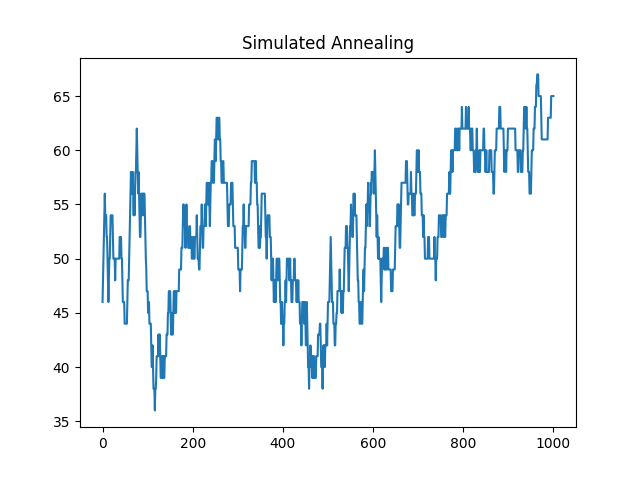
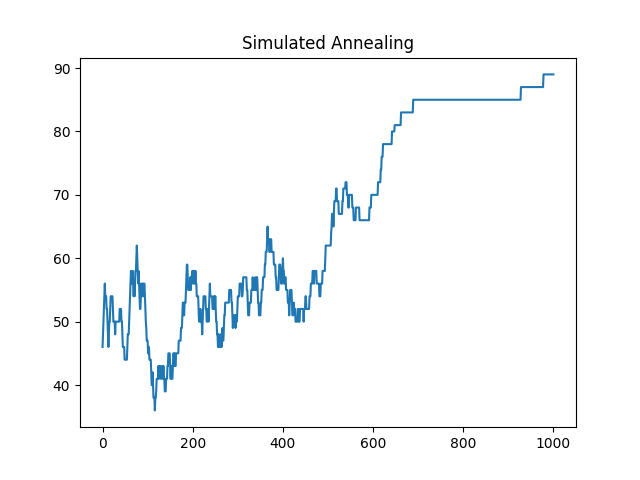
fix

diff --git a/randomized_optimization/plotting.py b/randomized_optimization/plotting.py
@@ -1,5 +1,8 @@
 import pandas as pd
+import numpy as np
 from matplotlib import pyplot as plt
+from sklearn.model_selection import learning_curve
+
 
 # TEST_PATH = './six_peaks/GA_final/ga__GA_final__curves_df.csv'
 def plot_ro_curve(filepath, title):
@@ -20,3 +23,120 @@ def plot_nn_curve_df(data, title=""):
     plt.plot(data)
     plt.title(title)
     plt.show()
+
+
+
+def plot_learning_curve(estimator, title, X, y, axes=None, ylim=None, cv=None,
+                        n_jobs=None, train_sizes=np.linspace(.1, 1.0, 5)):
+    """
+    Generate 3 plots: the test and training learning curve, the training
+    samples vs fit times curve, the fit times vs score curve.
+
+    Parameters
+    ----------
+    estimator : estimator instance
+        An estimator instance implementing `fit` and `predict` methods which
+        will be cloned for each validation.
+
+    title : str
+        Title for the chart.
+
+    X : array-like of shape (n_samples, n_features)
+        Training vector, where ``n_samples`` is the number of samples and
+        ``n_features`` is the number of features.
+
+    y : array-like of shape (n_samples) or (n_samples, n_features)
+        Target relative to ``X`` for classification or regression;
+        None for unsupervised learning.
+
+    axes : array-like of shape (3,), default=None
+        Axes to use for plotting the curves.
+
+    ylim : tuple of shape (2,), default=None
+        Defines minimum and maximum y-values plotted, e.g. (ymin, ymax).
+
+    cv : int, cross-validation generator or an iterable, default=None
+        Determines the cross-validation splitting strategy.
+        Possible inputs for cv are:
+
+          - None, to use the default 5-fold cross-validation,
+          - integer, to specify the number of folds.
+          - :term:`CV splitter`,
+          - An iterable yielding (train, test) splits as arrays of indices.
+
+        For integer/None inputs, if ``y`` is binary or multiclass,
+        :class:`StratifiedKFold` used. If the estimator is not a classifier
+        or if ``y`` is neither binary nor multiclass, :class:`KFold` is used.
+
+        Refer :ref:`User Guide <cross_validation>` for the various
+        cross-validators that can be used here.
+
+    n_jobs : int or None, default=None
+        Number of jobs to run in parallel.
+        ``None`` means 1 unless in a :obj:`joblib.parallel_backend` context.
+        ``-1`` means using all processors. See :term:`Glossary <n_jobs>`
+        for more details.
+
+    train_sizes : array-like of shape (n_ticks,)
+        Relative or absolute numbers of training examples that will be used to
+        generate the learning curve. If the ``dtype`` is float, it is regarded
+        as a fraction of the maximum size of the training set (that is
+        determined by the selected validation method), i.e. it has to be within
+        (0, 1]. Otherwise it is interpreted as absolute sizes of the training
+        sets. Note that for classification the number of samples usually have
+        to be big enough to contain at least one sample from each class.
+        (default: np.linspace(0.1, 1.0, 5))
+    """
+    if axes is None:
+        _, axes = plt.subplots(1, 3, figsize=(20, 5))
+
+    axes[0].set_title(title)
+    if ylim is not None:
+        axes[0].set_ylim(*ylim)
+    axes[0].set_xlabel("Training examples")
+    axes[0].set_ylabel("Score")
+
+    train_sizes, train_scores, test_scores, fit_times, _ = \
+        learning_curve(estimator, X, y, cv=cv, n_jobs=n_jobs,
+                       train_sizes=train_sizes,
+                       return_times=True)
+    train_scores_mean = np.mean(train_scores, axis=1)
+    train_scores_std = np.std(train_scores, axis=1)
+    test_scores_mean = np.mean(test_scores, axis=1)
+    test_scores_std = np.std(test_scores, axis=1)
+    fit_times_mean = np.mean(fit_times, axis=1)
+    fit_times_std = np.std(fit_times, axis=1)
+
+    # Plot learning curve
+    axes[0].grid()
+    axes[0].fill_between(train_sizes, train_scores_mean - train_scores_std,
+                         train_scores_mean + train_scores_std, alpha=0.1,
+                         color="r")
+    axes[0].fill_between(train_sizes, test_scores_mean - test_scores_std,
+                         test_scores_mean + test_scores_std, alpha=0.1,
+                         color="g")
+    axes[0].plot(train_sizes, train_scores_mean, 'o-', color="r",
+                 label="Training score")
+    axes[0].plot(train_sizes, test_scores_mean, 'o-', color="g",
+                 label="Cross-validation score")
+    axes[0].legend(loc="best")
+
+    # Plot n_samples vs fit_times
+    axes[1].grid()
+    axes[1].plot(train_sizes, fit_times_mean, 'o-')
+    axes[1].fill_between(train_sizes, fit_times_mean - fit_times_std,
+                         fit_times_mean + fit_times_std, alpha=0.1)
+    axes[1].set_xlabel("Training examples")
+    axes[1].set_ylabel("fit_times")
+    axes[1].set_title("Scalability of the model")
+
+    # Plot fit_time vs score
+    axes[2].grid()
+    axes[2].plot(fit_times_mean, test_scores_mean, 'o-')
+    axes[2].fill_between(fit_times_mean, test_scores_mean - test_scores_std,
+                         test_scores_mean + test_scores_std, alpha=0.1)
+    axes[2].set_xlabel("fit_times")
+    axes[2].set_ylabel("Score")
+    axes[2].set_title("Performance of the model")
+
+    return plt

diff --git a/randomized_optimization/optimization_dnn.py b/randomized_optimization/optimization_dnn.py
@@ -6,7 +6,7 @@ from sklearn.preprocessing import MinMaxScaler, OneHotEncoder
 from sklearn.metrics import accuracy_score
 from sklearn.utils import shuffle
 
-from plotting import plot_nn_curve_df
+from plotting import plot_nn_curve_df, plot_learning_curve
 
 VERBOSE=True
 SEED = 42
@@ -27,7 +27,7 @@ encoder = OneHotEncoder()
 y_train_hot = encoder.fit_transform(y_train.reshape(-1, 1)).todense()
 y_test_hot = encoder.transform(y_test.reshape(-1, 1)).todense()
 
-dnn1 = mlrose.NeuralNetwork(hidden_nodes = [64,64], activation = 'relu', \
+dnn1 = mlrose.NeuralNetwork(hidden_nodes = [100,100], activation = 'relu', \
                                  algorithm = 'random_hill_climb', max_iters = 1000, \
                                  bias = True, is_classifier = True, learning_rate = 1, \
                                  early_stopping = True, max_attempts = 100, \
@@ -47,27 +47,30 @@ dnn3 = mlrose.NeuralNetwork(hidden_nodes = [100,100], activation = 'relu', \
 
 def dnnfit1():
     print('RHC Start...')
-    results1 = dnn1.fit(X_train, y_train_hot)
-    print(results1.fitness_curve)
+    # results1 = dnn1.fit(X_train, y_train_hot)
+    plots = plot_learning_curve(dnn1,"RHC", X_train, y_train_hot)
+    plots.savefig('rhc_dnn.png')
+    
+    # print(results1.fitness_curve)
     # plot_nn_curve_df(results1.fitness_curve)
     print('RHC')
-    print('Train data Score: ', dnn1.score(X_train, y_train_hot))
-    print('Test data Score', dnn1.score(X_test, y_test_hot))
+    # print('Train data Score: ', dnn1.score(X_train, y_train_hot))
+    # print('Test data Score', dnn1.score(X_test, y_test_hot))
 
 def dnnfit2():
     print('SA START...')
-    dnn2.fit(X_train, y_train_hot)
-    print('SA')
-    print('Train data Score: ', dnn2.score(X_train, y_train_hot))
-    print('Test data Score', dnn2.score(X_test, y_test_hot))
+    plots = plot_learning_curve(dnn2,"SA", X_train, y_train_hot)
+    plots.savefig('sa_dnn.png')
 
 def dnnfit3():
     print('GA START...')
-    dnn3.fit(X_train, y_train_hot)
-    print('GA')
-    print('Train data Score: ', dnn3.score(X_train, y_train_hot))
-    print('Test data Score', dnn3.score(X_test, y_test_hot))
+    plots = plot_learning_curve(dnn2,"GA", X_train, y_train_hot)
+    plots.savefig('ga_dnn.png')
+    # dnn3.fit(X_train, y_train_hot)
+    # print('GA')
+    # print('Train data Score: ', dnn3.score(X_train, y_train_hot))
+    # print('Test data Score', dnn3.score(X_test, y_test_hot))
 
-dnnfit1()
+# dnnfit1()
 dnnfit2()
 dnnfit3()

diff --git a/randomized_optimization/six_peaks.py b/randomized_optimization/six_peaks.py
@@ -23,7 +23,7 @@ sa = mlrose.SARunner(
     iteration_list=[1, 10, 50, 100, 250, 500, 1000],
     max_attempts=1000,
     temperature_list=[250],
-    decay_list=[mlrose.ExpDecay],
+    decay_list=[mlrose.GeomDecay],
 )
 
 ga = mlrose.GARunner(
@@ -33,7 +33,7 @@ ga = mlrose.GARunner(
     iteration_list=[1, 10, 50, 100, 250, 500, 1000],
     max_attempts=1000,
     population_sizes=[200],
-    mutation_rates=[0.3],
+    mutation_rates=[0.2],
 )
 
 mimic = mlrose.MIMICRunner(
@@ -55,10 +55,10 @@ sa_run_stats, sa_run_curves = sa.run()
 print('GA')
 ga_run_stats, ga_run_curves = ga.run()
 print('MIMIC')
-mimic_run_stats, mimic_run_curves = mimic.run()
-print(mimic_run_stats)
-print(mimic_run_curves)
+# mimic_run_stats, mimic_run_curves = mimic.run()
+print(ga_run_stats)
+print(ga_run_curves)
 plot_ro_curve_df(rhc_run_curves, "Randomized Hill Climbing", 'sixpeaks')
 plot_ro_curve_df(ga_run_curves, "Genetic Algorithm", 'sixpeaks')
 plot_ro_curve_df(sa_run_curves, "Simulated Annealing", 'sixpeaks')
-plot_ro_curve_df(mimic_run_curves, "MIMIC", 'sixpeaks')
+# plot_ro_curve_df(mimic_run_curves, "MIMIC", 'sixpeaks')

diff --git a/randomized_optimization/flipflop.py b/randomized_optimization/flipflop.py
@@ -23,7 +23,7 @@ sa = mlrose.SARunner(
     iteration_list=[1, 10, 50, 100, 250, 500, 1000],
     max_attempts=1000,
     temperature_list=[250],
-    decay_list=[mlrose.ExpDecay],
+    decay_list=[mlrose.GeomDecay],
 )
 
 ga = mlrose.GARunner(

diff --git a/randomized_optimization/n_queens.py b/randomized_optimization/n_queens.py
@@ -24,7 +24,7 @@ sa = mlrose.SARunner(
     iteration_list=[1, 10, 50, 100, 250, 500, 1000],
     max_attempts=1000,
     temperature_list=[250],
-    decay_list=[mlrose.ExpDecay],
+    decay_list=[mlrose.GeomDecay],
 )
 
 ga = mlrose.GARunner(
